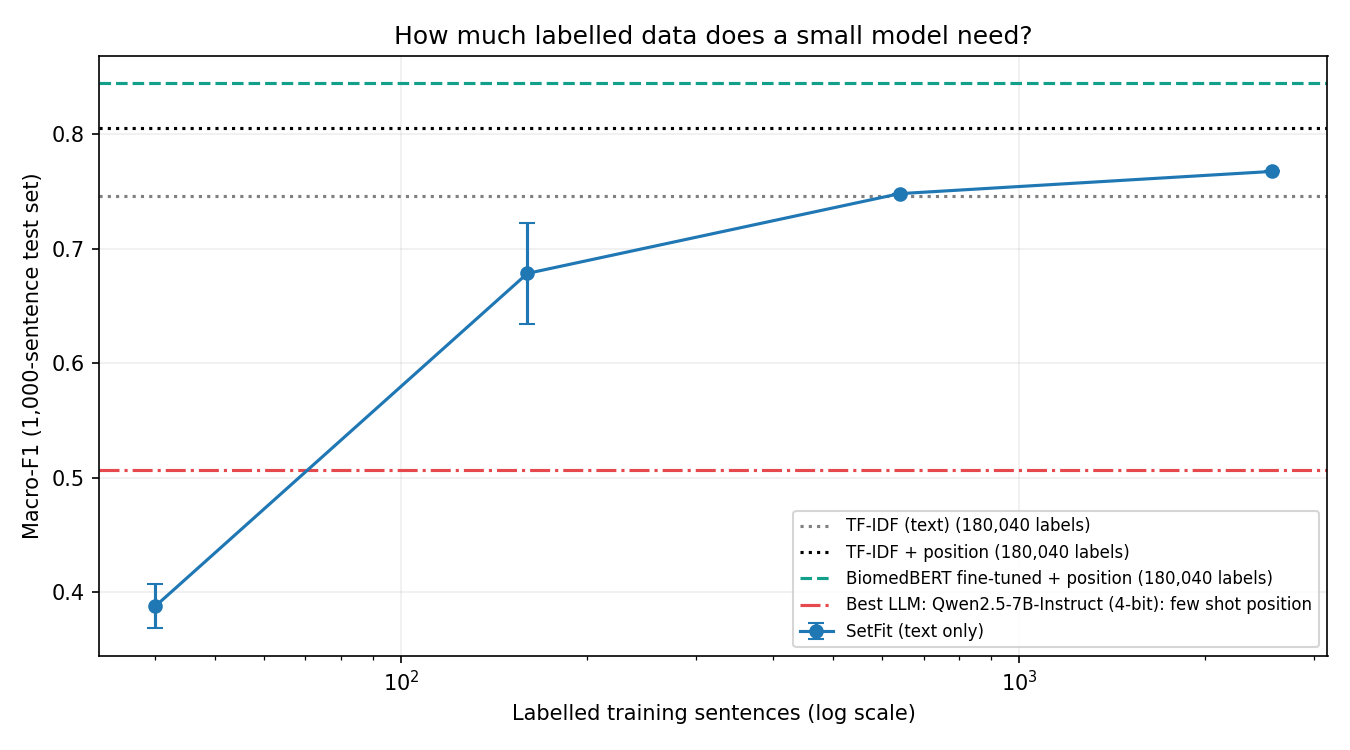
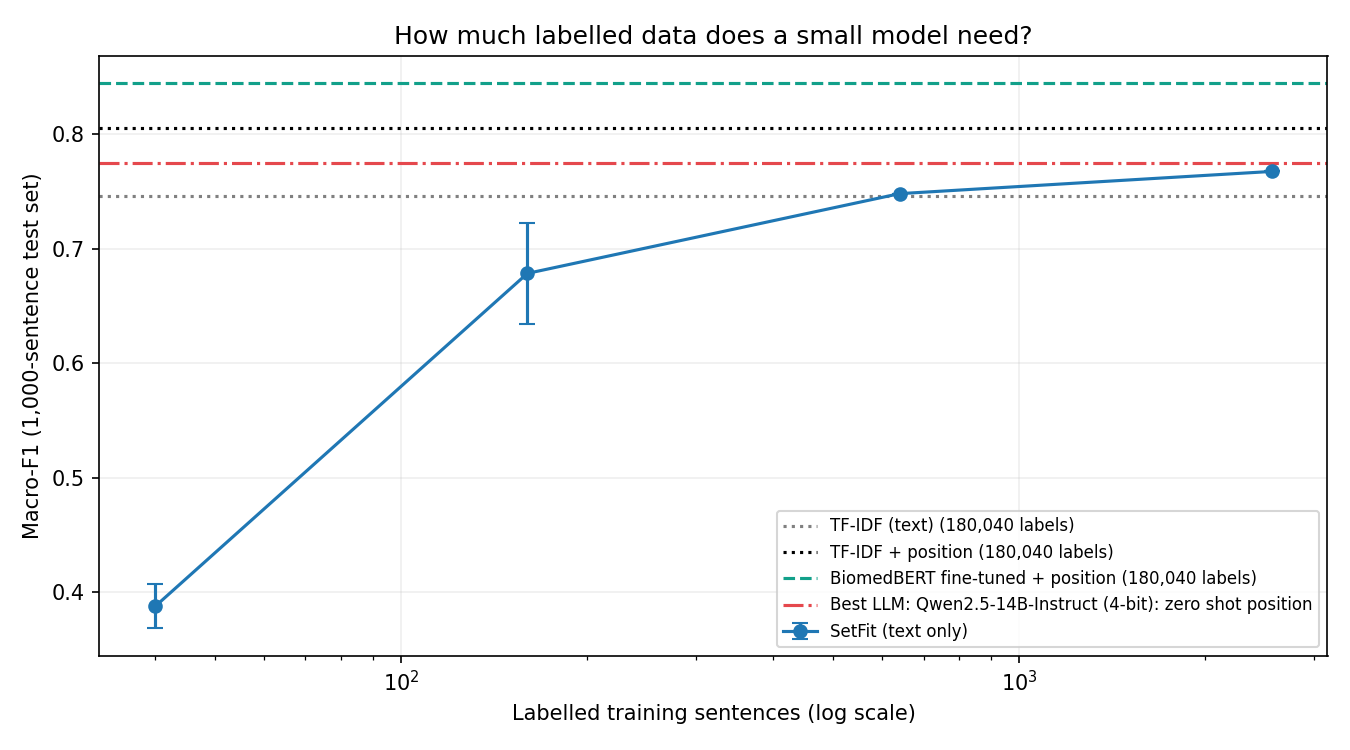
Final results: 7B and 14B LLMs one sentence per prompt; updated findings and README

diff --git a/README.md b/README.md
@@ -2,7 +2,7 @@
 
 **Question:** to label the role of each sentence in a medical research abstract, should you fine-tune a small model or prompt a general large language model? And how much labelled data does the small model really need?
 
-**Short answer:** a fine-tuned 110-million-parameter biomedical model (BiomedBERT) was the most accurate model tested (macro-F1 **0.870** on 30,135 test sentences) and about **218 times faster** than the best general LLM tested (Qwen2.5-7B-Instruct (4-bit): few shot position), which scored **0.506**, below even a simple TF-IDF baseline. With only **640 labelled sentences**, a SetFit model matched a TF-IDF model trained on 180,040. And a manual review found that about **half of the best model's "errors" were labelling errors in the benchmark itself**.
+**Short answer:** a fine-tuned 110-million-parameter biomedical model (BiomedBERT) was the most accurate model tested (macro-F1 **0.870** on 30,135 test sentences). The best general LLM (Qwen2.5-14B-Instruct (4-bit): zero shot position), using **no labelled data at all**, reached **0.775**: as good as small models trained on thousands of examples, but significantly behind the fine-tuned model and about **495 times slower**. With only **640 labelled sentences**, a SetFit model matched a TF-IDF model trained on 180,040. And a manual review found that about **half of the best model's "errors" were labelling errors in the benchmark itself**.
 
 ## The task and data
 
@@ -20,7 +20,7 @@
 | Classic baseline | TF-IDF + logistic regression, with and without sentence position | 180,040 |
 | Few-shot fine-tuning | SetFit on a biomedical sentence-transformer (S-PubMedBert-MS-MARCO), 8 to 512 examples per class | 40 to 2,560 |
 | Full fine-tuning | BiomedBERT (110M parameters), with and without class weights | 180,040 |
-| General LLM | Qwen2.5-7B-Instruct, zero-shot and few-shot in 4-bit, run locally | 0 or 10 examples in the prompt |
+| General LLM | Qwen2.5-7B-Instruct and Qwen2.5-14B-Instruct, zero-shot and few-shot in 4-bit, run locally | 0 or 10 examples in the prompt |
 
 "Position" means the sentence's place in its abstract (for example "[3 of 9]"), given to every model that uses it in the same way.
 
@@ -34,11 +34,12 @@ All scores on the same 1,000 balanced test sentences, with 95% bootstrap confide
 | BiomedBERT fine-tuned + position | 180,040 | 0.844 | 0.822 to 0.866 | 0.868 | 0.669 | 0 | 1.8 |
 | SetFit 512/class + position | 2,560 | 0.825 | 0.802 to 0.845 | 0.817 | 0.723 | 0 | 3.6 |
 | TF-IDF + position | 180,040 | 0.806 | 0.783 to 0.831 | 0.833 | 0.695 | 0 |  |
+| Qwen2.5-14B-Instruct (4-bit): zero shot position | 0 | 0.775 | 0.749 to 0.798 |  | 0.678 | 9 | 947.3 |
 | SetFit 512/class | 2,560 | 0.767 | 0.740 to 0.791 | 0.764 | 0.672 | 0 | 3.4 |
 | TF-IDF (text) | 180,040 | 0.746 | 0.719 to 0.773 | 0.763 | 0.669 | 0 |  |
-| Qwen2.5-7B-Instruct (4-bit): few shot position | 10 | 0.506 | 0.477 to 0.537 |  | 0.453 | 39 | 418.0 |
-| Qwen2.5-7B-Instruct (4-bit): zero shot | 0 | 0.283 | 0.255 to 0.311 |  | 0.401 | 48 | 302.0 |
-| Qwen2.5-7B-Instruct (4-bit): zero shot position | 0 | 0.281 | 0.252 to 0.309 |  | 0.341 | 143 | 299.0 |
+| Qwen2.5-7B-Instruct (4-bit): zero shot position | 0 | 0.703 | 0.673 to 0.730 |  | 0.678 | 7 | 488.1 |
+| Qwen2.5-7B-Instruct (4-bit): few shot position | 10 | 0.672 | 0.643 to 0.699 |  | 0.665 | 0 | 1046.3 |
+| Qwen2.5-7B-Instruct (4-bit): zero shot | 0 | 0.624 | 0.593 to 0.653 |  | 0.652 | 11 | 468.8 |
 
 
 ### How much labelled data does a small model need?
@@ -62,7 +63,7 @@ All scores on the same 1,000 balanced test sentences, with 95% bootstrap confide
 
 1. **Fine-tuning a small domain model wins.** BiomedBERT fine-tuned + position + class weights reached macro-F1 **0.852** on the balanced set and **0.870** on the full test set, at **1.9 ms per sentence**. It was significantly better than the best baseline (exact McNemar test, p = 8e-6).
 2. **Labels are expensive; you need far fewer than you might think.** SetFit with **128 examples per class (640 sentences)** scored **0.748**, the same as TF-IDF trained on **180,040** sentences (0.746). Gains flatten quickly after that.
-3. **General LLMs are not competitive here.** The best LLM setting (Qwen2.5-7B-Instruct (4-bit): few shot position) scored **0.506**, below the simplest trained baseline, ran at **418 ms per sentence**, and returned **39** unusable answers out of 1,000 (wrong number of labels or invalid labels). Examples in the prompt helped it far more than position did.
+3. **LLMs are the right tool without labels, not once you have them.** Doubling the LLM from 7B to 14B raised its zero-shot (with position) macro-F1 from **0.703** to **0.775**, mostly by fixing CONCLUSIONS (F1 0.624 to 0.864). With no labelled data, the 14B matched SetFit trained on 2,560 sentences without position (0.767) and beat TF-IDF on text (0.746). But it stayed behind every model that combined training data with position, and significantly behind the best (exact McNemar p = 4e-12), at **947 ms per sentence** against **1.9 ms**. OBJECTIVE stayed the hardest class for every model (F1 about 0.67 to 0.72). Adding 10 examples to the 7B's prompt lowered its score (0.672 against 0.703) in this setup.
 4. **Class weights fix part of the rare-class problem, at no overall cost.** Square-root inverse-frequency weights raised OBJECTIVE F1 from **0.669** to **0.703**. The overall difference was not significant (p = 0.36), so this is a targeted improvement, not a better model overall. Interestingly, SetFit trained on balanced classes still had the best OBJECTIVE F1 (0.723).
 5. **The benchmark's labels are a ceiling.** I reviewed 30 randomly sampled sentences where the best unweighted model disagreed with the gold label:
 
@@ -82,17 +83,18 @@ Exact McNemar tests, paired on the same 1,000 sentences, comparing the best mode
 - vs **BiomedBERT fine-tuned + position**: best right and other wrong on 18 sentences, the reverse on 12; p = 0.36
 - vs **SetFit 512/class + position**: best right and other wrong on 79 sentences, the reverse on 48; p = 0.0075
 - vs **TF-IDF + position**: best right and other wrong on 78 sentences, the reverse on 31; p = 8e-6
+- vs **Qwen2.5-14B-Instruct (4-bit): zero shot position**: best right and other wrong on 113 sentences, the reverse on 31; p = 4e-12
 - vs **SetFit 512/class**: best right and other wrong on 133 sentences, the reverse on 44; p = 1e-11
 - vs **TF-IDF (text)**: best right and other wrong on 137 sentences, the reverse on 31; p = 4e-17
-- vs **Qwen2.5-7B-Instruct (4-bit): few shot position**: best right and other wrong on 269 sentences, the reverse on 43; p = 4e-41
-- vs **Qwen2.5-7B-Instruct (4-bit): zero shot**: best right and other wrong on 423 sentences, the reverse on 37; p = 4e-84
-- vs **Qwen2.5-7B-Instruct (4-bit): zero shot position**: best right and other wrong on 377 sentences, the reverse on 42; p = 2e-68
+- vs **Qwen2.5-7B-Instruct (4-bit): zero shot position**: best right and other wrong on 183 sentences, the reverse on 34; p = 7e-26
+- vs **Qwen2.5-7B-Instruct (4-bit): few shot position**: best right and other wrong on 206 sentences, the reverse on 30; p = 2e-33
+- vs **Qwen2.5-7B-Instruct (4-bit): zero shot**: best right and other wrong on 243 sentences, the reverse on 31; p = 6e-42
 
 
 ## Limitations
 
-- **No frontier LLM result.** A Gemini comparison is included as notebook 05, but it could not be completed on the free API tier because of quota and availability limits. The LLMs tested here are open models (7B) in 4-bit, so the result shows the gap for general models of that size, not for the largest commercial models.
-- **LLM prompting was not tuned.** The LLMs classified 20 sentences per prompt, in a fixed random order, for efficiency. That is harder than one at a time, and invalid outputs were counted as wrong. An earlier version sent sentences grouped by their gold label, so every prompt held 20 sentences with the same answer; that unfairly lowered the LLM scores and was corrected by shuffling before batching.
+- **No frontier LLM result.** A Gemini comparison is included as notebook 05, but it could not be completed on the free API tier because of quota and availability limits. The LLMs tested here are open models (7B and 14B) in 4-bit, so the result shows the gap for general models of that size, not for the largest commercial models.
+- **LLM prompting was kept simple.** Each sentence was classified in its own prompt, with the same label definitions and, for few-shot, the same 10 examples; outputs that did not name a valid label were counted as wrong. An earlier version sent 20 sentences per prompt; the models sometimes skipped or repeated a label in the list, which misaligned answers and sentences and made those results unreliable in both directions. They were discarded and the evaluation was rerun one sentence at a time.
 - **Single runs.** Fine-tuning ran once per setting; GPU training is not fully deterministic, and small run-to-run differences (around 0.003 macro-F1) were observed.
 - **One dataset, one task.** Conclusions may not transfer to other text types or label schemes.
 
@@ -108,8 +110,7 @@ Everything runs on free Google Colab. Open the notebooks in order:
 | `04_biomedbert_finetune` | Full fine-tune | T4 GPU, about 15 min |
 | `04b_biomedbert_class_weights` | Full fine-tune with class weights | T4 GPU, about 15 min |
 | `05_gemini_optional` | Frontier LLM via API (needs a key) | CPU |
-| `06_open_llm_local` | Qwen2.5-7B-Instruct, 4-bit | T4 GPU, 25 to 40 min |
-| `06b_open_llm_14b` | Qwen2.5-14B-Instruct, 4-bit (optional scale test) | T4 GPU, about 1 hour including download |
+| `06_open_llm_local` | Qwen2.5-7B and 14B-Instruct, 4-bit, one sentence per prompt | T4 GPU, 30 to 60 min per model |
 | `07_final_comparison` | Tables, tests, charts, error sample | CPU |
 
 Data and intermediate results are saved to Google Drive under `sci-classify/`. Long-running notebooks save as they go and can be resumed.
